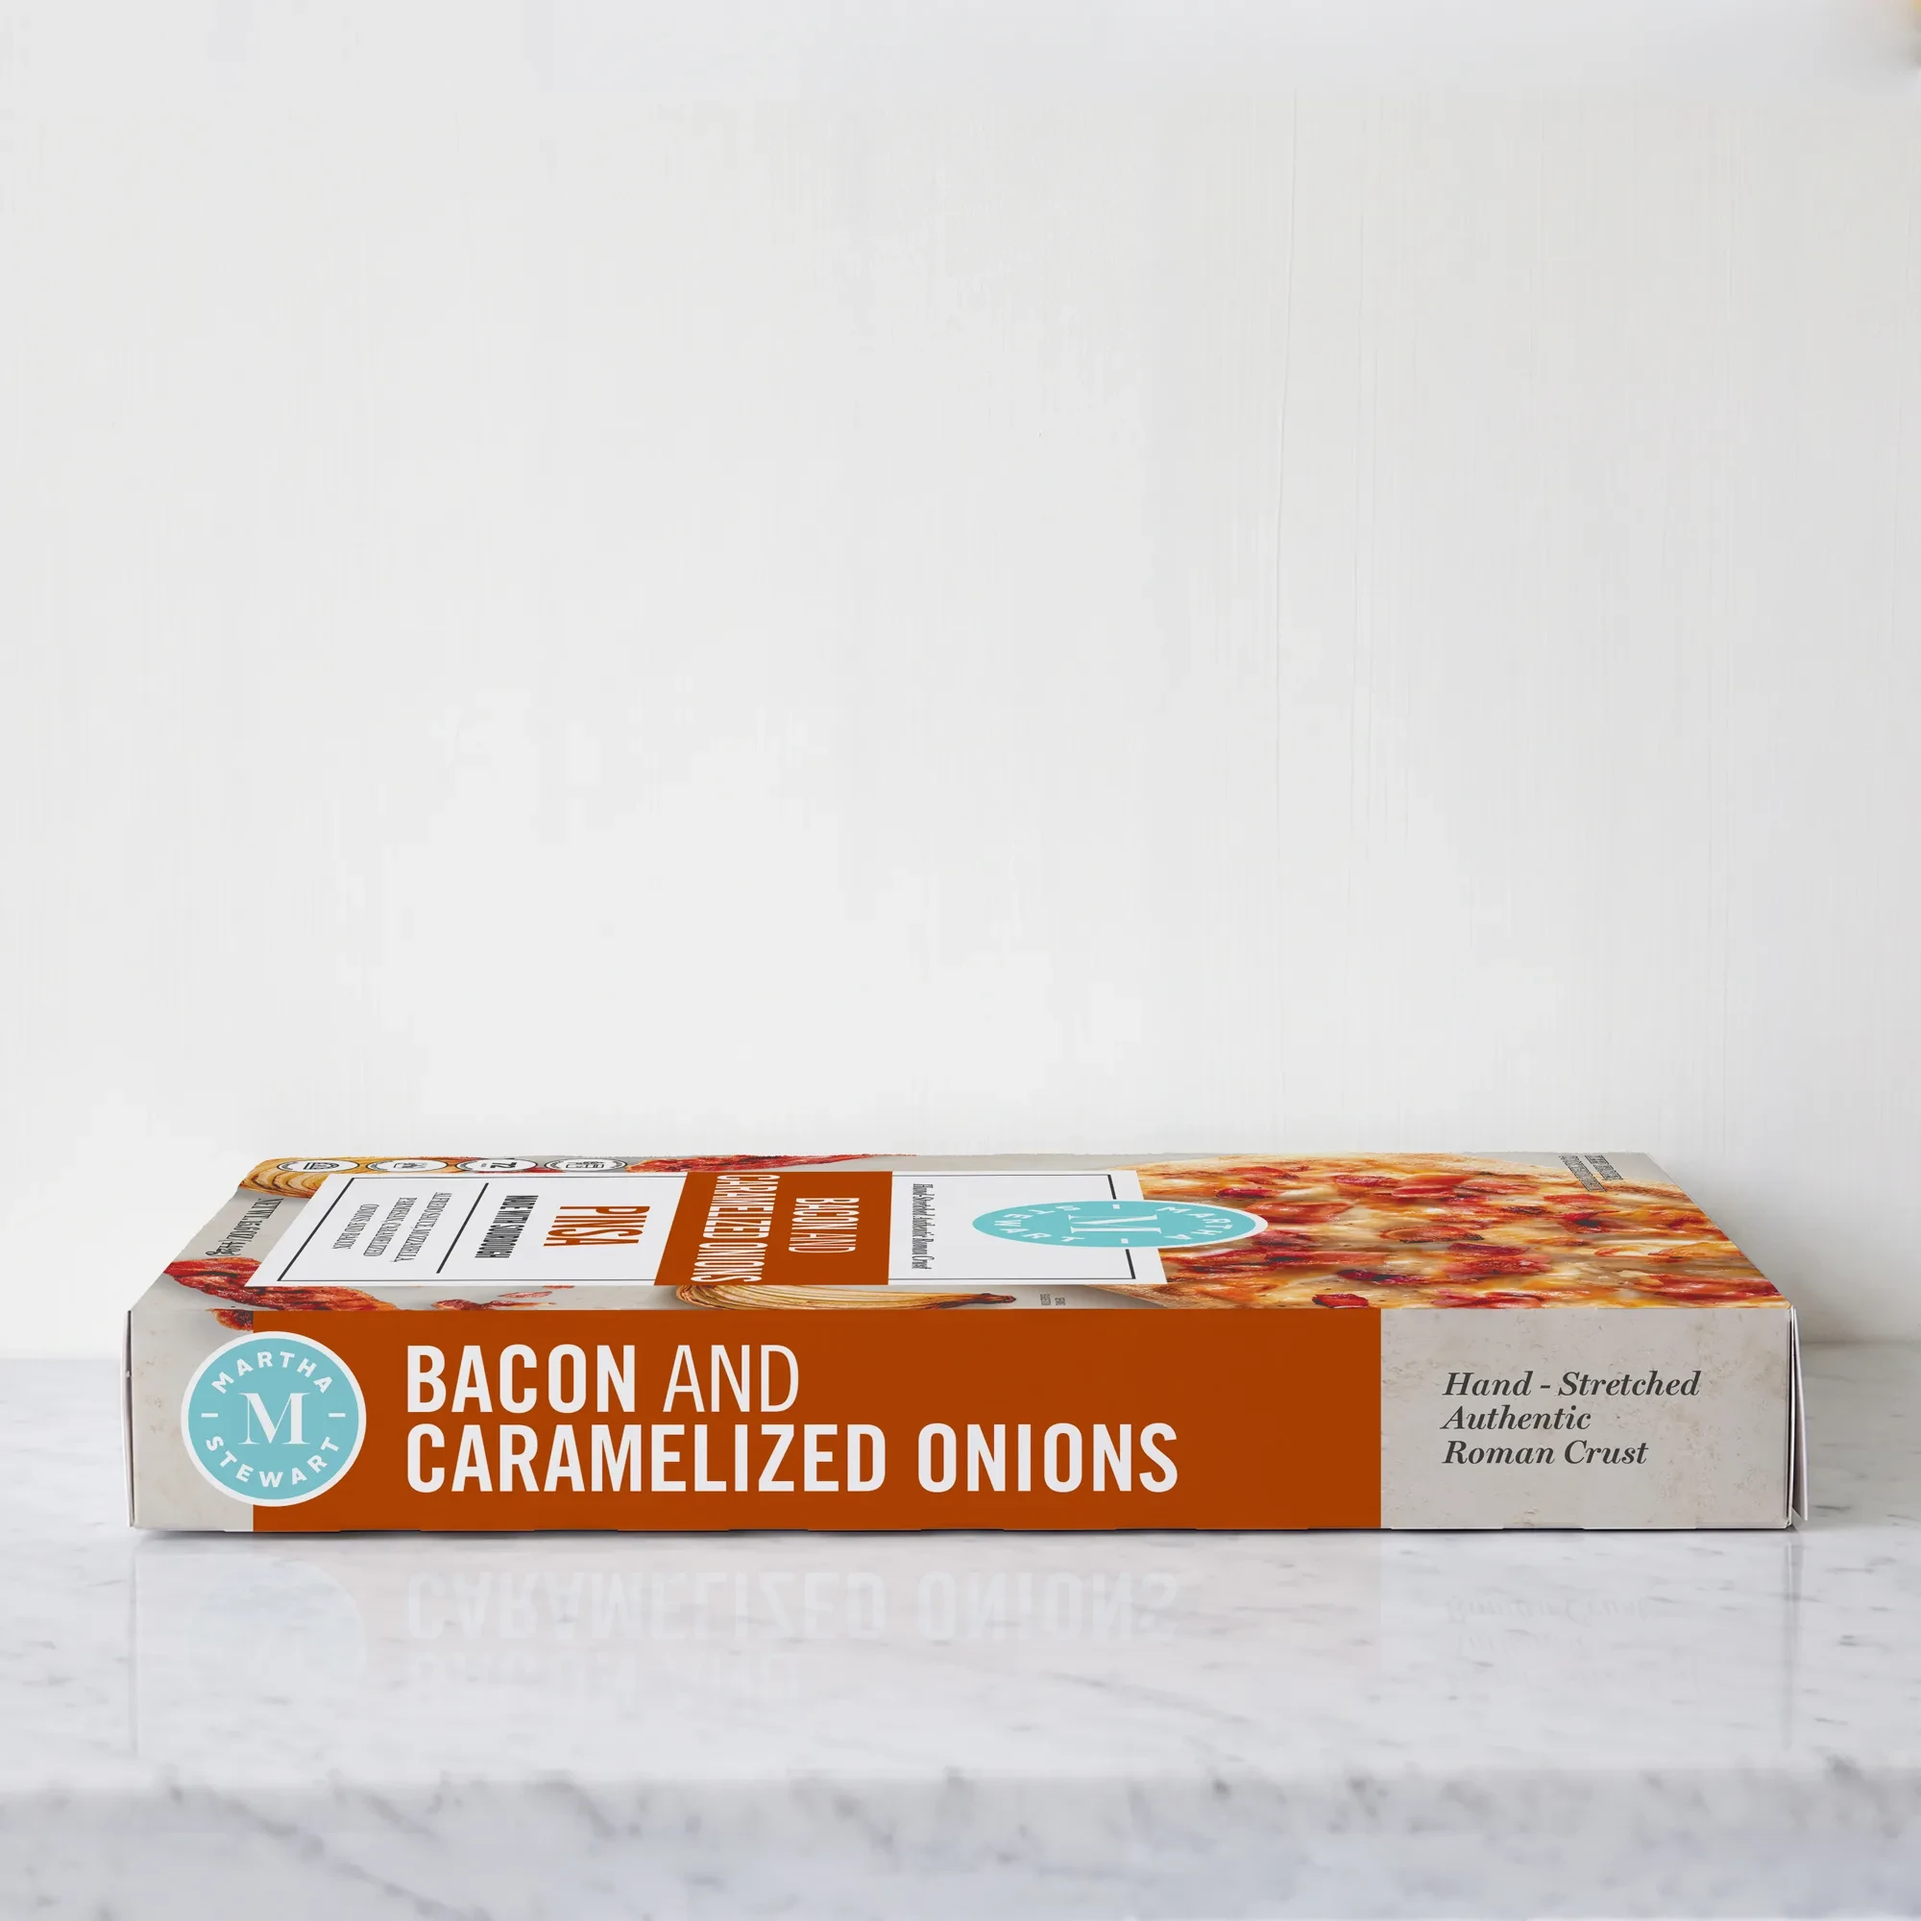
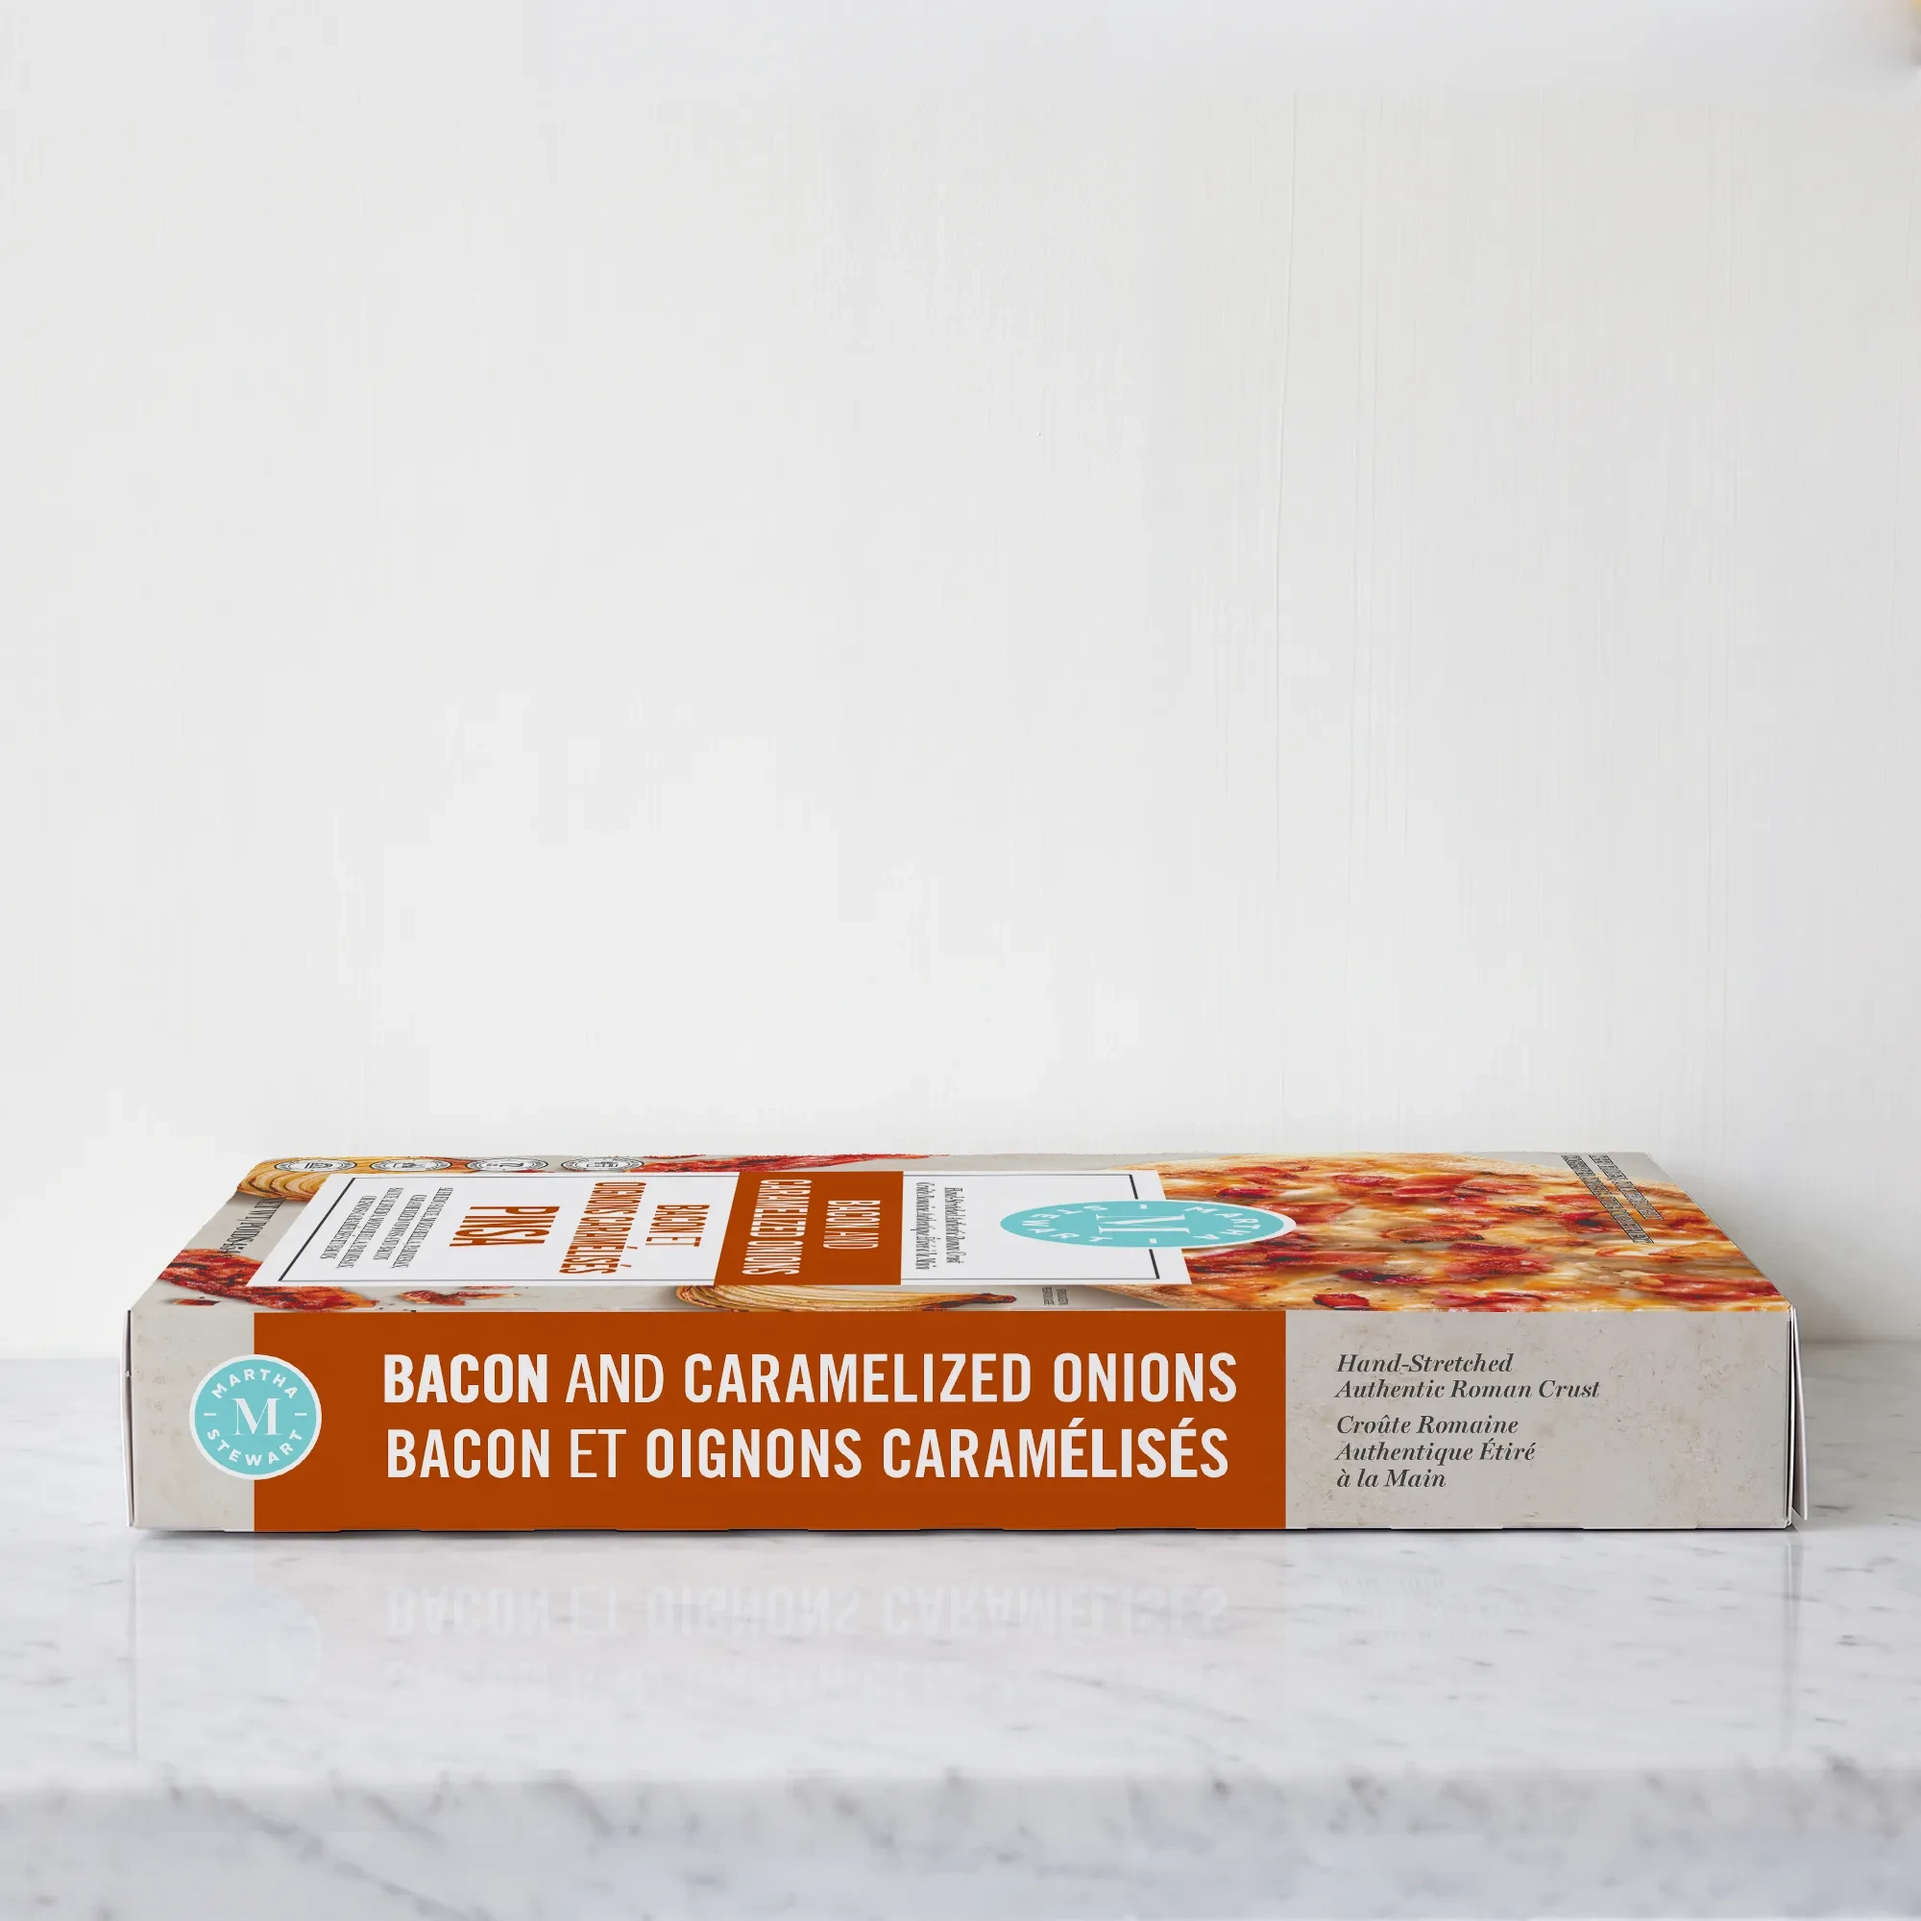
Catalog update: Bacon and Caramelized Onions Pinsa (atomic sync) [skip ci]

Changed region(s): [[0.062, 0.589, 0.868, 0.806], [0.806, 0.589, 0.868, 0.651]]

diff --git a/dist/products/data.js b/dist/products/data.js
@@ -25,9 +25,15 @@ const productsData = [
     "ingredients_fr": "Ingrédients : Pinsa (farine de blé, farine de riz biologique, farine de fève biologique, levain naturel, eau, huile d'olive, sel, levure). Garnitures : Fromage mozzarella, oignons caramélisés, bacon (porc, eau, sel, sucre brun, épices), fromage parmesan. Sauce Alfredo : Crème, ail émincé, fromage parmesan, amidon de maïs modifié, sel, poivre noir.\nContient : Blé, Lait.\nPeut contenir : Œufs, Soja, Moutarde.",
     "ingredients_es": "Ingredientes: Masa de pinsa (harina de trigo, harina de arroz orgánica, harina de haba orgánica, masa madre, agua, aceite de oliva, sal, levadura). Coberturas: Queso mozzarella, cebollas caramelizadas, tocino (cerdo, agua, sal, azúcar moreno, especias), queso parmesano. Salsa Alfredo: Crema, ajo picado, queso parmesano, almidón de maíz modificado, sal, pimienta negra.\nContiene: Trigo, Leche.\nPuede contener: Huevos, Soya, Mostaza.",
     "slug": "bacon-and-caramelized-onions-pinsa",
-    "image_ca": "",
+    "image_ca": "bacon-and-caramelized-onions-pinsa.webp",
     "image_us": "bacon-and-caramelized-onions-pinsa-us.webp",
-    "gallery_ca": [],
+    "gallery_ca": [
+      "bacon-and-caramelized-onions-pinsa-gallery-1.webp",
+      "bacon-and-caramelized-onions-pinsa-gallery-2.webp",
+      "bacon-and-caramelized-onions-pinsa-gallery-3.webp",
+      "bacon-and-caramelized-onions-pinsa-gallery-4.webp",
+      "bacon-and-caramelized-onions-pinsa-gallery-5.webp"
+    ],
     "gallery_us": [
       "bacon-and-caramelized-onions-pinsa-us-gallery-1.webp",
       "bacon-and-caramelized-onions-pinsa-us-gallery-2.webp",

diff --git a/products/data.js b/products/data.js
@@ -25,9 +25,15 @@ const productsData = [
     "ingredients_fr": "Ingrédients : Pinsa (farine de blé, farine de riz biologique, farine de fève biologique, levain naturel, eau, huile d'olive, sel, levure). Garnitures : Fromage mozzarella, oignons caramélisés, bacon (porc, eau, sel, sucre brun, épices), fromage parmesan. Sauce Alfredo : Crème, ail émincé, fromage parmesan, amidon de maïs modifié, sel, poivre noir.\nContient : Blé, Lait.\nPeut contenir : Œufs, Soja, Moutarde.",
     "ingredients_es": "Ingredientes: Masa de pinsa (harina de trigo, harina de arroz orgánica, harina de haba orgánica, masa madre, agua, aceite de oliva, sal, levadura). Coberturas: Queso mozzarella, cebollas caramelizadas, tocino (cerdo, agua, sal, azúcar moreno, especias), queso parmesano. Salsa Alfredo: Crema, ajo picado, queso parmesano, almidón de maíz modificado, sal, pimienta negra.\nContiene: Trigo, Leche.\nPuede contener: Huevos, Soya, Mostaza.",
     "slug": "bacon-and-caramelized-onions-pinsa",
-    "image_ca": "",
+    "image_ca": "bacon-and-caramelized-onions-pinsa.webp",
     "image_us": "bacon-and-caramelized-onions-pinsa-us.webp",
-    "gallery_ca": [],
+    "gallery_ca": [
+      "bacon-and-caramelized-onions-pinsa-gallery-1.webp",
+      "bacon-and-caramelized-onions-pinsa-gallery-2.webp",
+      "bacon-and-caramelized-onions-pinsa-gallery-3.webp",
+      "bacon-and-caramelized-onions-pinsa-gallery-4.webp",
+      "bacon-and-caramelized-onions-pinsa-gallery-5.webp"
+    ],
     "gallery_us": [
       "bacon-and-caramelized-onions-pinsa-us-gallery-1.webp",
       "bacon-and-caramelized-onions-pinsa-us-gallery-2.webp",
